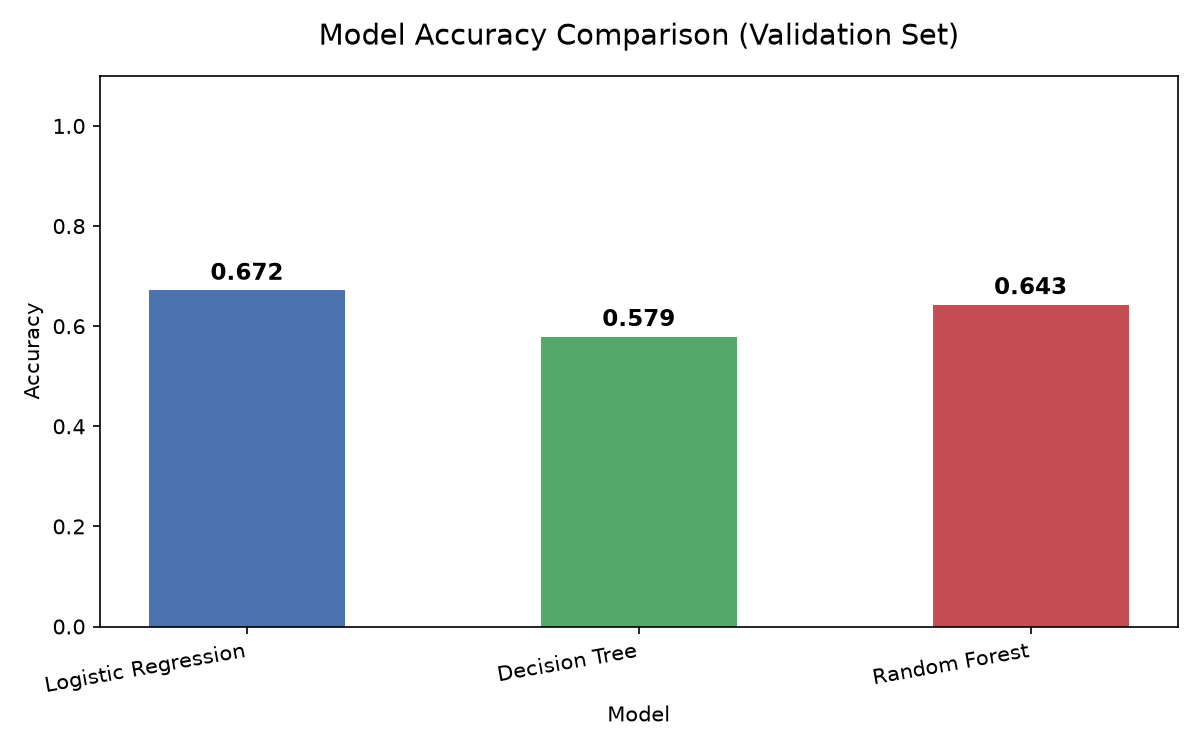
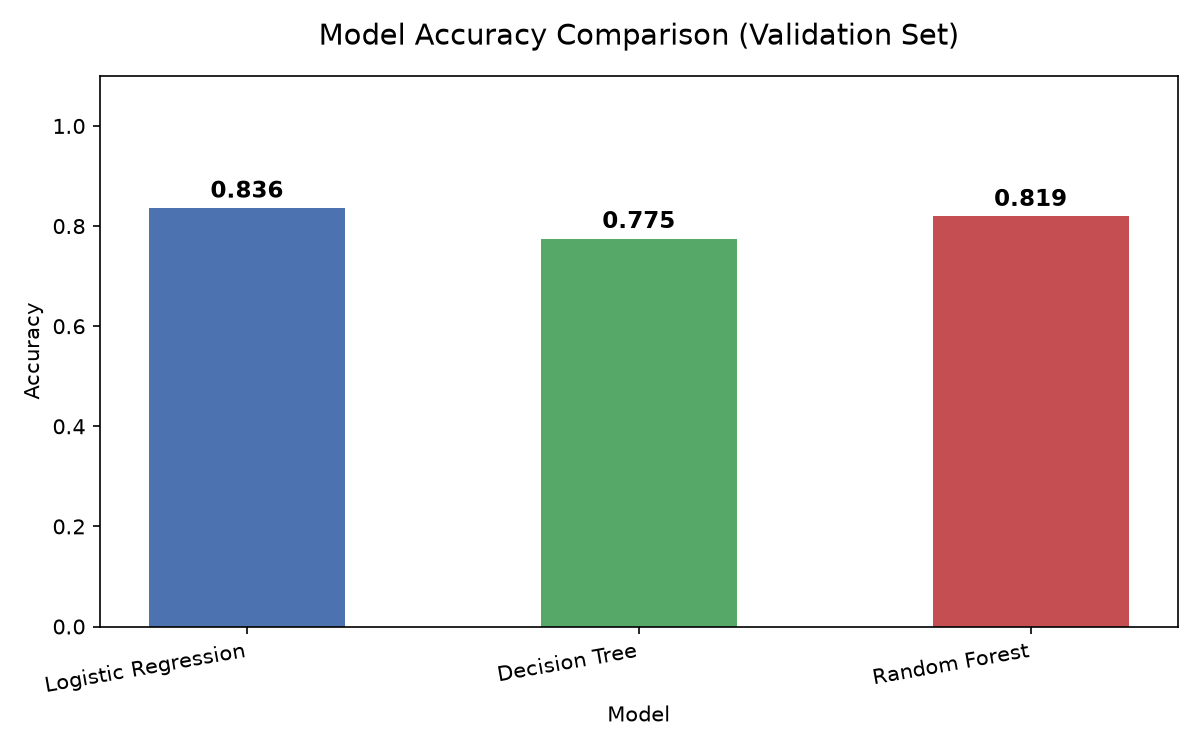
update and fixed errors

Changed region(s): [[0.4317, 0.276, 0.6167, 0.46], [0.7708, 0.2453, 0.9558, 0.4293], [0.1233, 0.2453, 0.3083, 0.3987]]

diff --git a/app.py b/app.py
@@ -36,7 +36,7 @@ st.sidebar.write("**Student ID:**")
 st.sidebar.write("250123")
 st.sidebar.markdown("---")
 st.sidebar.write("**Model:**")
-st.sidebar.write("Random Forest (GridSearchCV tuned)")
+st.sidebar.write("Random Forest")
 st.sidebar.write("**Features:**")
 st.sidebar.write("TF-IDF on Resume + Job Description")
 
@@ -93,7 +93,7 @@ def load_resources():
     except Exception as e:
         return None, None, None, f"Failed to load resources: {e}"
 
-
+# Heading of the app
 st.title("Resume Screening and Candidate Ranking System")
 st.write(
     "Select a job posting, upload a resume, and the system will predict "
@@ -101,7 +101,7 @@ st.write(
     "**Not Suitable** for that specific role."
 )
 st.markdown("---")
-
+# Load resources
 best_model, tfidf_vectorizer, job_df, load_error = load_resources()
 
 if load_error:
@@ -127,14 +127,14 @@ selected_title = st.selectbox(
     index=None,
     placeholder="Search for a job role...",
 )
-
+# If no job is selected, show a message and stop
 if not selected_title:
     st.info("Please select a job role from the dropdown to continue.")
     st.stop()
-
+#  Select the job posting row and get the clean job text
 selected_job_row = job_df[job_df["Display_Name"] == selected_title].iloc[0]
 clean_job_text   = str(selected_job_row["Clean_Job"])
-
+# If the job description is empty, show an error and stop
 if not clean_job_text.strip():
     st.error("The selected job posting has an empty description. Please choose another role.")
     st.stop()
@@ -151,17 +151,18 @@ uploaded_file = st.file_uploader(
     "Upload a candidate resume (PDF or TXT):",
     type=["pdf", "txt"],
 )
-
+# If no file is uploaded, show a message and stop
 if uploaded_file is None:
     st.info("Please upload a resume to see the evaluation.")
     st.stop()
-
+#  Extract text from the uploaded file
 raw_resume_text, extract_error = extract_text_from_file(uploaded_file)
 
+# If the file cannot be read, show an error and stop
 if extract_error:
     st.error(f"File Error: {extract_error}")
     st.stop()
-
+# If the extracted text is empty, show an error and stop
 if not raw_resume_text.strip():
     st.error(
         "The uploaded file appears to be empty or contains no readable text. "
@@ -209,7 +210,7 @@ elif prediction == "Suitable":
     st.warning(f"Prediction:  {prediction}")
 else:
     st.error(f"Prediction:  {prediction}")
-
+# Map the prediction to a recommendation
 recommendation_map = {
     "Highly Suitable": (
         "This candidate strongly matches the job requirements. "
@@ -225,7 +226,7 @@ recommendation_map = {
     ),
 }
 st.info(f"Recommendation: {recommendation_map[prediction]}")
-
+# Display model confidence and resume-job similarity
 col1, col2 = st.columns(2)
 
 with col1:
@@ -242,7 +243,7 @@ with col2:
         help="Cosine similarity between resume and job description (informational only).",
     )
     st.progress(float(min(similarity_score, 1.0)))
-
+# Debug information
 with st.expander("Debug Information"):
     st.write("**Raw resume word count:**", len(raw_resume_text.split()))
     st.write("**Cleaned resume word count:**", len(cleaned_resume.split()))

diff --git a/evaluate.py b/evaluate.py
@@ -35,7 +35,7 @@ print("\nTransforming test data...")
 X_test_tfidf = vectorizer.transform(X_test)
 print(f"  X_test_tfidf shape: {X_test_tfidf.shape}")
 
-# Compute metrics
+# Compute metrics for visualization
 print("\nEvaluation Results (Test Set)")
 
 y_pred    = best_model.predict(X_test_tfidf)
@@ -53,7 +53,7 @@ print(f"  F1 Score  : {f1:.4f}")
 print("\nClassification Report:")
 report = classification_report(y_test, y_pred, zero_division=0)
 print(report)
-
+# Save classification report
 report_path = OUTPUT_DIR / "classification_report.txt"
 with open(report_path, "w") as f:
     f.write("AI Resume Screening — Classification Report\n")
@@ -66,7 +66,7 @@ with open(report_path, "w") as f:
     f.write(report)
 print(f"Saved: {report_path}")
 
-# Confusion matrix
+# Confusion matrix for visualization
 print("\nGenerating confusion matrix...")
 
 cm   = confusion_matrix(y_test, y_pred, labels=best_model.classes_)

diff --git a/preprocessing.py b/preprocessing.py
@@ -1,5 +1,4 @@
 # Generates Resume-Job training pairs and saves cleaned datasets.
-
 import re
 import string
 import numpy as np
@@ -12,7 +11,7 @@ from sklearn.metrics.pairwise import cosine_similarity
 
 # Max jobs sampled for training pairs (all jobs still saved for the UI)
 N_SAMPLE_JOBS_FOR_TRAINING = 60
-
+# Random seed for reproducibility
 RANDOM_SEED = 42
 DATA_DIR    = Path("data")
 
@@ -91,7 +90,7 @@ print("Saved: data/clean_job_dataset.csv")
 
 # Step 3: Generate Resume-Job training pairs
 print("\nGenerating Resume-Job training pairs...")
-
+# sample N_SAMPLE_JOBS_FOR_TRAINING unique job postings
 if len(job_df) > N_SAMPLE_JOBS_FOR_TRAINING:
     sampled_job_df = job_df.sample(n=N_SAMPLE_JOBS_FOR_TRAINING, random_state=RANDOM_SEED).reset_index(drop=True)
     print(f"Sampled {N_SAMPLE_JOBS_FOR_TRAINING} unique job postings for training pair generation.")

diff --git a/train_model.py b/train_model.py
@@ -13,7 +13,7 @@ from sklearn.metrics import (
     recall_score,
     f1_score,
 )
-
+# Directories
 DATA_DIR   = Path("data")
 MODELS_DIR = Path("models")
 OUTPUT_DIR = Path("outputs")
@@ -61,8 +61,7 @@ print(f"  TF-IDF vocabulary size : {len(vectorizer.vocabulary_):,} features")
 print(f"  X_train_tfidf shape    : {X_train_tfidf.shape}")
 print(f"  X_val_tfidf shape      : {X_val_tfidf.shape}")
 print(f"  X_test_tfidf shape     : {X_test_tfidf.shape}")
-
-
+#  Evaluate on validation set
 def evaluate_on_validation(model, X_val_tfidf, y_val):
     """Evaluates a model on the validation set and returns weighted metrics."""
     y_pred    = model.predict(X_val_tfidf)

diff --git a/README.md b/README.md
@@ -1,6 +1,6 @@
-# AI-Powered Resume Screening and Candidate Ranking System
+# AI-powered Resume Screening and Candidate Ranking System
 
-A machine learning system that automatically screens resumes and ranks candidates based on their suitability for a given job posting. Built as a university final-year AI project using Python and Streamlit.
+A machine learning system that automatically screens resumes and ranks candidates based on their suitability for a given job posting. Built as a machine learning project using Python and Streamlit.
 
 ---
 
@@ -168,4 +168,4 @@ Then open your browser at `http://localhost:8501`.
 
 **Sunil Kumar Khadka**
 Student ID: 250123
-University Final-Year AI Project
+